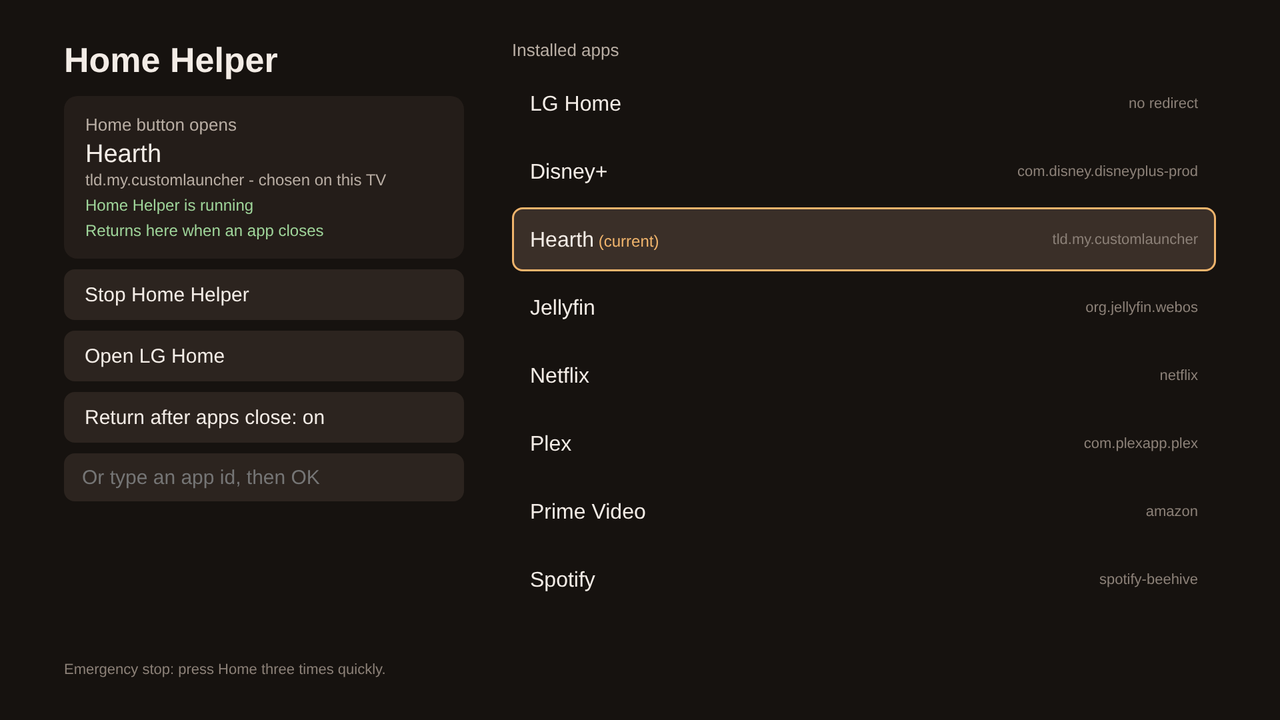
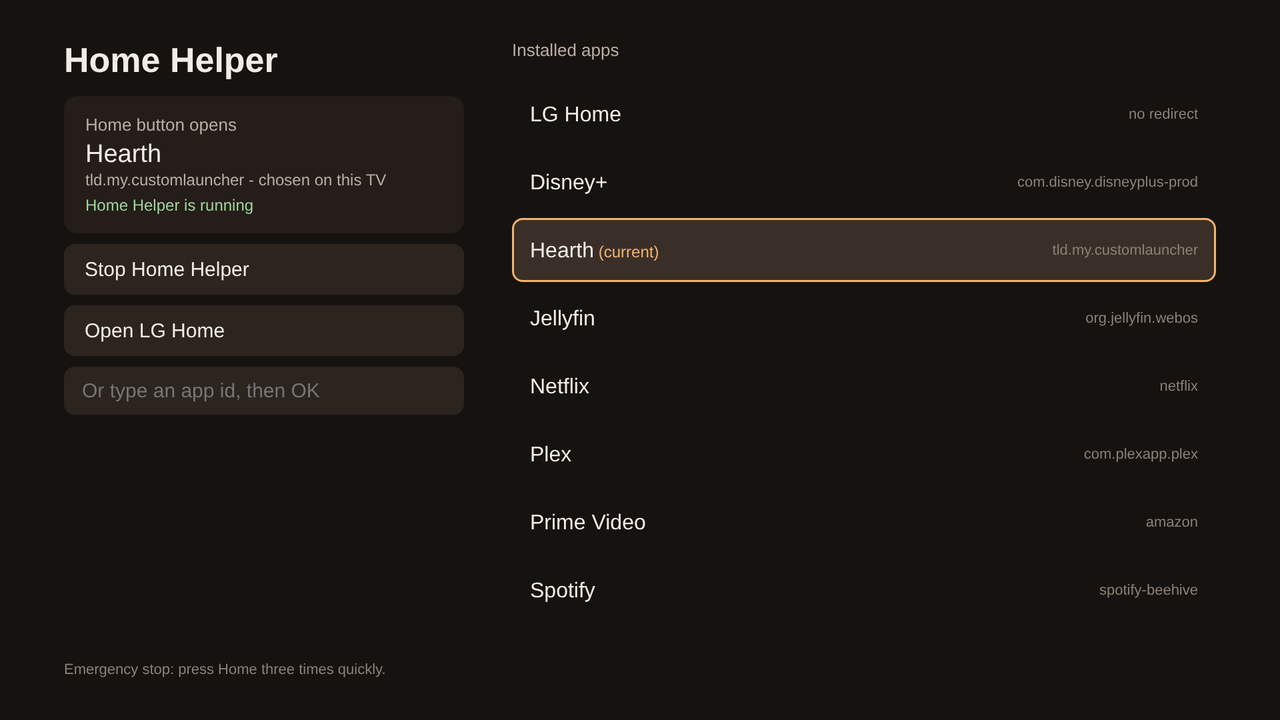
Pairing is part of Start, not an option
Start Home Helper also pairs: the TV asks once, later starts find the
saved key and skip the prompt (boot starts never pair). The separate
"Return to this app when others close" option and the pairing status
line are gone; a note above the app list says what to do, and a
"Pair again" button appears only when pairing is missing.

When the TV rejects the saved key (e.g. after a reset), the helper now
deletes it instead of keeping a dead key, so "Pair again" appears, and
waits quietly for a new key without prompting. New test covers that.

Claude-Session: https://claude.ai/code/session_01GGffTuPnQ7r8XtEgn8LE92

diff --git a/settings/app.js b/settings/app.js
@@ -83,40 +83,40 @@
     });
   }
 
+  // Pairing happens on Start (and "Pair again"); users only see what to do next.
   var pairPoll = null, pairStarted = 0;
-  var PAIR_REASONS = { timeout: 'no answer in time', rejected: 'the TV refused',
-    connect: 'could not reach the TV service', closed: 'connection closed',
-    write: 'could not save the key', 'no-network': 'no network', 'no-key': 'no key received' };
+  function note(text) {
+    $('listNote').textContent = text || '';
+    $('listNote').style.display = text ? '' : 'none';
+  }
   function showPairing(p) {
-    var el = $('pairState'), s = p && p.status;
+    var s = p && p.status, pair = $('pair');
+    var waiting = s && s.state === 'waiting' && pairStarted && s.time >= pairStarted - 5000;
     if (p && p.paired) {
-      el.textContent = 'Returns here when an app closes';
-      el.style.color = '#9fd59a';
-      $('pair').textContent = 'Return after apps close: on';
+      pair.style.display = 'none';
       stopPairPoll();
-      if (!appsLoaded) { appsLoaded = true; message(''); loadApps(); }
-    } else if (s && s.state === 'waiting' && s.time >= pairStarted - 5000) {
-      el.textContent = 'Waiting: choose Allow on the TV prompt';
-      el.style.color = '#f0b46c';
-    } else if (s && s.state === 'failed' && pairStarted && s.time >= pairStarted - 5000) {
-      el.textContent = 'Pairing failed: ' + (PAIR_REASONS[s.reason] || s.reason || 'unknown') + '. Try again.';
-      el.style.color = '#f08a6c';
-      stopPairPoll();
-    } else if (p) {
-      el.textContent = 'Not paired: no return after apps close';
-      el.style.color = '#b9aea4';
+      if (!appsLoaded) { appsLoaded = true; note(''); loadApps(); }
+      return;
+    }
+    appsLoaded = false;
+    if (waiting) {
+      pair.style.display = 'none';
+      note('Choose Allow on your TV to find your apps.');
+    } else if (running) {
+      pair.style.display = '';
+      note('Choose Pair again, then Allow on your TV, to find your apps. Or type an app id.');
+    } else {
+      pair.style.display = 'none';
+      note('Start Home Helper to find your apps. Your TV will ask you to allow it once.');
     }
   }
   function stopPairPoll() { if (pairPoll) { clearInterval(pairPoll); pairPoll = null; } }
-  function startPairing() {
+  // Check every 2 s until the TV's prompt is answered (it gives up after 90 s).
+  function watchPairing() {
     pairStarted = Date.now();
-    message('A prompt will appear on the TV. Choose Allow with the remote.');
-    launch(HELPER, { nativeHomePair: true }, function (ok) {
-      if (!ok) { message('Could not reach Home Helper. Is it installed?'); return; }
-      stopPairPoll();
-      pairPoll = setInterval(refreshTarget, 2000);
-      setTimeout(stopPairPoll, 100000);
-    });
+    stopPairPoll();
+    pairPoll = setInterval(refreshTarget, 2000);
+    setTimeout(stopPairPoll, 100000);
   }
 
   function setTarget(id) {
@@ -156,8 +156,7 @@
           if (r3 && r3.returnValue && r3.apps && r3.apps.length) return done(r3.apps);
           appsLoaded = false;
           done([]);
-          message('To list your apps, choose "Return to this app when others close" and Allow. ' +
-            'Or type an app id above.');
+          note('Could not read your apps. You can type an app id instead.');
         });
       });
     });
@@ -229,6 +228,7 @@
       message('Starting...');
       launch(HELPER, { nativeHomeStart: true }, function (ok) {
         message(ok ? 'Home Helper started.' : 'Could not start Home Helper.');
+        if (ok) { watchPairing(); refreshTarget(); }
         setTimeout(refreshTarget, 1500);
         setTimeout(refreshTarget, 4000);
       });
@@ -238,7 +238,11 @@
         if (!ok) message('Could not open LG Home.');
       });
     } else if (el.id === 'pair') {
-      startPairing();
+      launch(HELPER, { nativeHomePair: true }, function (ok) {
+        if (!ok) { message('Could not reach Home Helper. Is it installed?'); return; }
+        watchPairing();
+        refreshTarget();
+      });
     } else if (el.id === 'reset') {
       setTarget('');
     } else if (el.id === 'manual') {

diff --git a/settings/index.html b/settings/index.html
@@ -14,7 +14,8 @@
   #current { background: #241d19; border-radius: 20px; padding: 28px 32px; }
   #currentTitle { font-size: 38px; margin: 6px 0 4px; word-break: break-all; }
   #currentMeta { font-size: 24px; color: #b9aea4; }
-  #helperState, #pairState { font-size: 24px; margin-top: 10px; }
+  #helperState { font-size: 24px; margin-top: 10px; }
+  #listNote { font-size: 28px; color: #f0b46c; margin-top: 16px; line-height: 1.4; }
   .btn { display: block; width: 100%; text-align: left; font-size: 30px; padding: 18px 28px;
     border-radius: 16px; background: #2c241f; color: inherit; border: 3px solid transparent; }
   .focus { border-color: #f0b46c !important; background: #3a2f28 !important; }
@@ -41,11 +42,10 @@
       <div id="currentTitle">...</div>
       <div id="currentMeta"></div>
       <div id="helperState"></div>
-      <div id="pairState"></div>
     </div>
     <button class="btn nav" id="power">Start Home Helper</button>
     <button class="btn nav" id="lghome">Open LG Home</button>
-    <button class="btn nav" id="pair">Return to this app when others close</button>
+    <button class="btn nav" id="pair" style="display:none">Pair again</button>
     <button class="btn nav" id="reset">Use packaged default</button>
     <input class="nav" id="manual" placeholder="Or type an app id, then OK">
     <div id="msg"></div>
@@ -53,6 +53,7 @@
   </div>
   <div id="main">
     <div class="label">Installed apps</div>
+    <div id="listNote"></div>
     <div id="list"><div id="rows"></div></div>
   </div>
 </div>

diff --git a/app/helper-entry.js b/app/helper-entry.js
@@ -82,11 +82,6 @@ if (params.nativeHomeStop === true) {
       process.exit(0);
     }
   );
-} else if (params.nativeHomePair === true) {
-  // Pairing waits for "Allow" on the TV; detach already runs us in our own session.
-  require('./pair')(root + '/state', function (ok) {
-    process.exit(ok ? 0 : 1);
-  });
 } else if (starting) {
   var start = { nativeHomeAuto: params.nativeHomeAuto === true };
   if (typeof params.nativeHomeSetup === 'string')
@@ -100,6 +95,18 @@ if (params.nativeHomeStop === true) {
     process.exit(1);
   });
   child.unref();
+  // A start someone asked for also pairs, so apps can be listed and the helper
+  // can see which app is in front. Never at boot: nobody is there to answer.
+  // With a key already saved this returns at once, without a prompt.
+  if (params.nativeHomeStart === true || params.nativeHomePair === true)
+    require('./pair')(root + '/state', function () {
+      process.exit(0);
+    });
+} else if (params.nativeHomePair === true) {
+  // "Pair again": waits for "Allow" on the TV; detach runs us in our own session.
+  require('./pair')(root + '/state', function (ok) {
+    process.exit(ok ? 0 : 1);
+  });
 } else if (saved !== null) {
   process.exit(saved ? 0 : 1);
 } else {

diff --git a/app/screen-watch.js b/app/screen-watch.js
@@ -251,10 +251,14 @@ module.exports = function (data, log, onForeground, onReset, onPower) {
         if (/^(400|401|403|404)\b/.test(String(m.error))) closed = true;
         s.terminate();
       } else if (m.payload && m.payload.pairingType) {
-        // A revoked key must not leave an unattended pairing flow running.
+        // The TV no longer accepts the key (e.g. after a reset) and wants to pair
+        // again. Never leave that prompt running unattended: drop the dead key,
+        // so the settings app offers "Pair again", and wait quietly for a new one.
         log({ event: 'screen-watch-unavailable', reason: 'pairing-required' });
+        try {
+          fs.unlinkSync(data + '/ssap-key.json');
+        } catch (ignore) {}
         registered = false;
-        closed = true;
         settle(null);
         s.terminate();
       }

diff --git a/README.md b/README.md
@@ -24,7 +24,7 @@ You need a TV with **Developer Mode** on, and **BOTH** packages from the
 | Package | What it is |
 | --- | --- |
 | `io.github.theogal.homehelper_1.0.0_arm.ipk` | **Home Helper**: the background helper that catches the Home button |
-| `io.github.theogal.homehelper.settings_1.0.0_all.ipk` | **Home Helper Settings**: pick the app, start the helper, pair |
+| `io.github.theogal.homehelper.settings_1.0.0_all.ipk` | **Home Helper Settings**: start the helper and pick the app |
 
 **With webOS Dev Manager** (easiest): install
 [webOS Dev Manager](https://github.com/webosbrew/dev-manager-desktop) on your
@@ -50,18 +50,16 @@ offer to remove apps installed from a loose .ipk file.)
 
 Open **Home Helper Settings** on the TV:
 
-1. Choose **Return to this app when others close**, then **Allow** on the
-   prompt the TV shows. This pairing lets Home Helper list your apps (webOS
-   doesn't let sideloaded apps list them otherwise) and bring you back to
-   your app when another app closes
+1. Choose **Start Home Helper**. The first time, your TV asks you to allow
+   it: choose **Allow**. Home Helper needs this to list your apps and to bring
+   you back to your app when another app closes
 2. Pick the app the Home button should open (right side, OK). The first
-   entry, **LG Home**, turns the redirect off again. Without pairing you can
-   type an app id instead
-3. Choose **Start Home Helper**
+   entry, **LG Home**, turns the redirect off again
 
-After that the helper starts by itself on every boot.
+After that the helper starts by itself on every boot. If you chose not to
+allow it, or the TV was reset, the settings app shows a **Pair again** button.
 
-![Home Helper Settings with Hearth chosen and pairing on](docs/settings-app-chosen.png)
+![Home Helper Settings with Hearth chosen](docs/settings-app-chosen.png)
 
 Use the arrow keys to move between the buttons on the left and the app list on
 the right; OK selects.
@@ -71,7 +69,6 @@ From a computer instead:
 ```
 ares-launch --device tv io.github.theogal.homehelper -p '{"nativeHomeTarget":"com.plexapp.plex"}'
 ares-launch --device tv io.github.theogal.homehelper -p '{"nativeHomeStart":true}'
-ares-launch --device tv io.github.theogal.homehelper -p '{"nativeHomePair":true}'
 ares-launch --device tv io.github.theogal.homehelper -p '{"nativeHomeStop":true}'
 ```
 
@@ -97,8 +94,8 @@ ares-launch --device tv io.github.theogal.homehelper -p '{"nativeHomeStop":true}
   the setup.
 - At power-on you may briefly see LG Home before your app opens: the helper
   starts with the TV and then switches to your app.
-- Back is never changed. With pairing on, when an app has used up its own
-  Back steps and closes, you land in your chosen app instead of LG Home.
+- Back is never changed. When an app has used up its own Back steps and
+  closes, you land in your chosen app instead of LG Home.
   Holding Back does whatever your TV normally does (accessibility zoom on
   newer models); Home Helper doesn't act on it.
 - Works with the Magic Remote. A basic IR remote also works, with a short
@@ -128,9 +125,9 @@ launchHelper({ nativeHomeStart: true });
 | `nativeHomeTarget: "<app id>"` | Home opens that app |
 | `nativeHomeTarget: "com.webos.app.home"` | Home goes to LG Home (redirect off) |
 | `nativeHomeTarget: ""` | Clears the TV choice (packaged default, else LG Home) |
-| `nativeHomeStart: true` | Starts the helper (also after a stop) |
+| `nativeHomeStart: true` | Starts the helper (also after a stop). The first time, the TV asks the user to allow it |
 | `nativeHomeStop: true` | Stops the helper; it stays off until started again |
-| `nativeHomePair: true` | Asks the TV to pair, for returning after apps close |
+| `nativeHomePair: true` | Asks the TV to allow the helper again (after it was declined or the TV was reset) |
 
 Status (current target, running, paired) is available from
 `luna://io.github.theogal.homehelper.service/target`.
